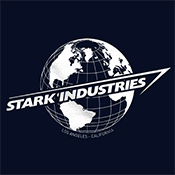
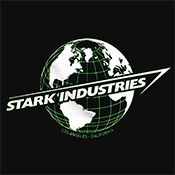
updated assets and content

diff --git a/Avengers_Email.html b/Avengers_Email.html
@@ -7,13 +7,14 @@
     <title>Example</title>
     <style>
         * {
-            font-family: Helvetica, Arial, "Lucida Grande";
+            font-family: Geneva, Tahoma, Verdana, sans-serif;
         }
         
         body {
             margin: 0;
             padding: 0;
             width: 100%;
+            background-color: #f2f7fb;
         }
         
         .body-wrap {
@@ -22,8 +23,8 @@
         
         .button {
             text-decoration: none;
-            color: #FFFFFF;
-            background-color: blueviolet;
+            color: #01fdfe;
+            background-color: black;
             padding: 10px 16px;
             font-weight: bold;
             text-align: center;
@@ -33,20 +34,29 @@
             width: 25%;
         }
         
-        @media only screen and (max-width: 480px){
-            .footer-container{
+        .footer {
+            background-color: #0f0c0c;
+            color: #01fdfe;
+        }
+        
+        .footer p {
+            font-size: 12px;
+            text-align: center;
+        }
+        
+        @media only screen and (max-width: 480px) {
+            .footer-container {
                 display: block !important;
                 width: 100% !important;
             }
-            
-            .footer{
+            .footer {
                 width: 100% !important;
             }
         }
     </style>
 </head>
 
-<body bgcolor="#FFFFFF">
+<body>
     <table class="body-wrap">
         <tr>
             <td class="container" style="max-width: 600px; margin: 0 auto; display: block;">
@@ -55,23 +65,23 @@
                         <tr>
                             <td align="left">
                                 <p>
-                                    <img src="http://placehold.it/250x100">
+                                    <img src="images/stark.png">
                                 </p>
                             </td>
                             <td>
                                 &nbsp;
                             </td>
                             <td align="right">
-                                <p> <img src="http://placehold.it/100x100">
+                                <p> <img src="images/Avengers-logo-sq.png">
                                 </p>
                             </td>
                         </tr>
                     </table>
-                    <table bgcolor="#F9F9F9" width="100%" style="border: 1px solid; border-collapse: collapse;">
+                    <table bgcolor="#d1e1fa" width="100%" style="border: 1px solid; border-collapse: collapse;">
                         <tr>
                             <td style="vertical-align:top;">
                                 <p>
-                                    <img src="http://placehold.it/600x200" style="max-width: 100%">
+                                    <img src="images/full-avengers.png" style="max-width: 100%">
                                 </p>
                             </td>
                         </tr>
@@ -100,9 +110,15 @@
                                 <p>
                                     Thank you for being green.
                                 </p>
-                                <p>
-                                    Sincerely,
-                                    <br> Iron Man
+                                <p>Sincerely,
+                                </p>
+                                <p><img src="images/tony-headshot.jpg" align="left" style="margin-bottom: 20px;">
+                                    <span style="padding-left: 20px;"><strong>Tony Stark</strong></span>
+                                    <br>
+                                    <span style="padding-left: 20px;">CEO</span>
+                                    </br>
+                                    <span style="padding-left: 20px;">Stark Enterprises</span>
+                                    </br>
                                 </p>
                             </td>
                         </tr>
@@ -114,24 +130,30 @@
         </tr>
     </table>
     <!-- end .body-wrap-->
-    <table class="footer" style="width: 600px; border: 1px dashed; margin: 0 auto;">
+
+    <table class="footer" style="width: 600px; margin: 0 auto;">
         <tr>
             <td class="footer-container" style="width:50%;">
-                <table width="100%" style="border: 1px solid">
+                <table width="100%">
                     <tr>
                         <td>
-                            <h4>Connect with Us</h4>
-                            <p>Phone: <strong>(555)555-5555</strong><br/>
-                Email: <strong><a href="emailto:sample@email.com">tony@stark.com</a></strong></p>
+                            <h4 style="text-align:center;">CONNECT WITH JARVIS</h4>
+                            <p>PHONE: (555)555-5555</p>
+                            <p>EMAIL: <a href="emailto:sample@email.com" style="color:#01fdfe;">tony@stark.com</a>
+                            </p>
+                            <p><a href="#" style="background-repeat: no-repeat; display: inline-block; border-radius:3px; font-weight:700;text-align:center;text-decoration:none;box-shadow:0 1px 0 #11161a;color:#ffffff;font-size:10px;line-height:25px;background-color:#19a9e5;background-image:url(http://i3.createsend1.com/ti/y/15/70B/861/011614/images/tweet.gif);padding-left:24px;text-shadow:0 1px 0 #1895c9;width:100px;">TWEET</a>
+                            </p>
+                            <p><a href="#" style="background-repeat: no-repeat; display: inline-block;border-radius:3px;font-weight:700;text-align:center;text-decoration:none;box-shadow:0 1px 0 #11161a;color:#ffffff;font-size:10px;line-height:25px;background-color:#18527c;background-image:url(http://i4.createsend1.com/ti/y/15/70B/861/011614/images/like.gif);padding-left:16px;text-shadow:0 1px 0 #184a6f;width:100px;">LIKE</a>
+                            </p>
                         </td>
                     </tr>
                 </table>
             </td>
             <td class="footer-container" style="width:50%;">
-                <table width="100%" style="border: 1px solid">
+                <table width="100%">
                     <tr>
                         <td>
-                            <p><img src="/images/stark-industries.png" style="max-width: 100%; margin: 0 auto; display: block;">
+                            <p><img src="images/stark-industries2.png" style="max-width: 100%; margin: 0 auto; display: block;">
                             </p>
 
                         </td>
